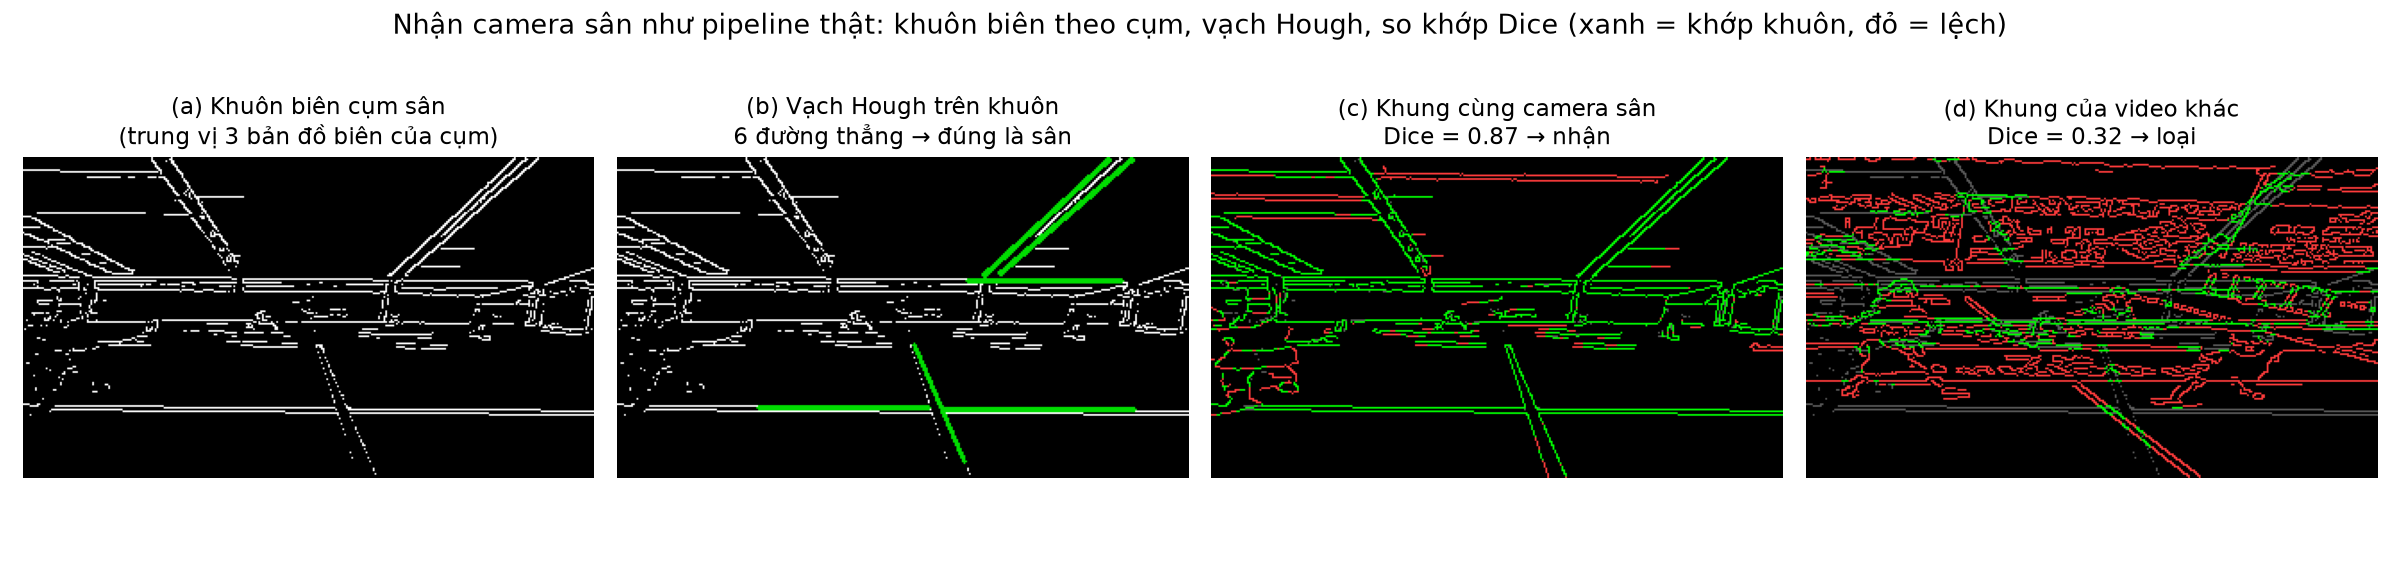
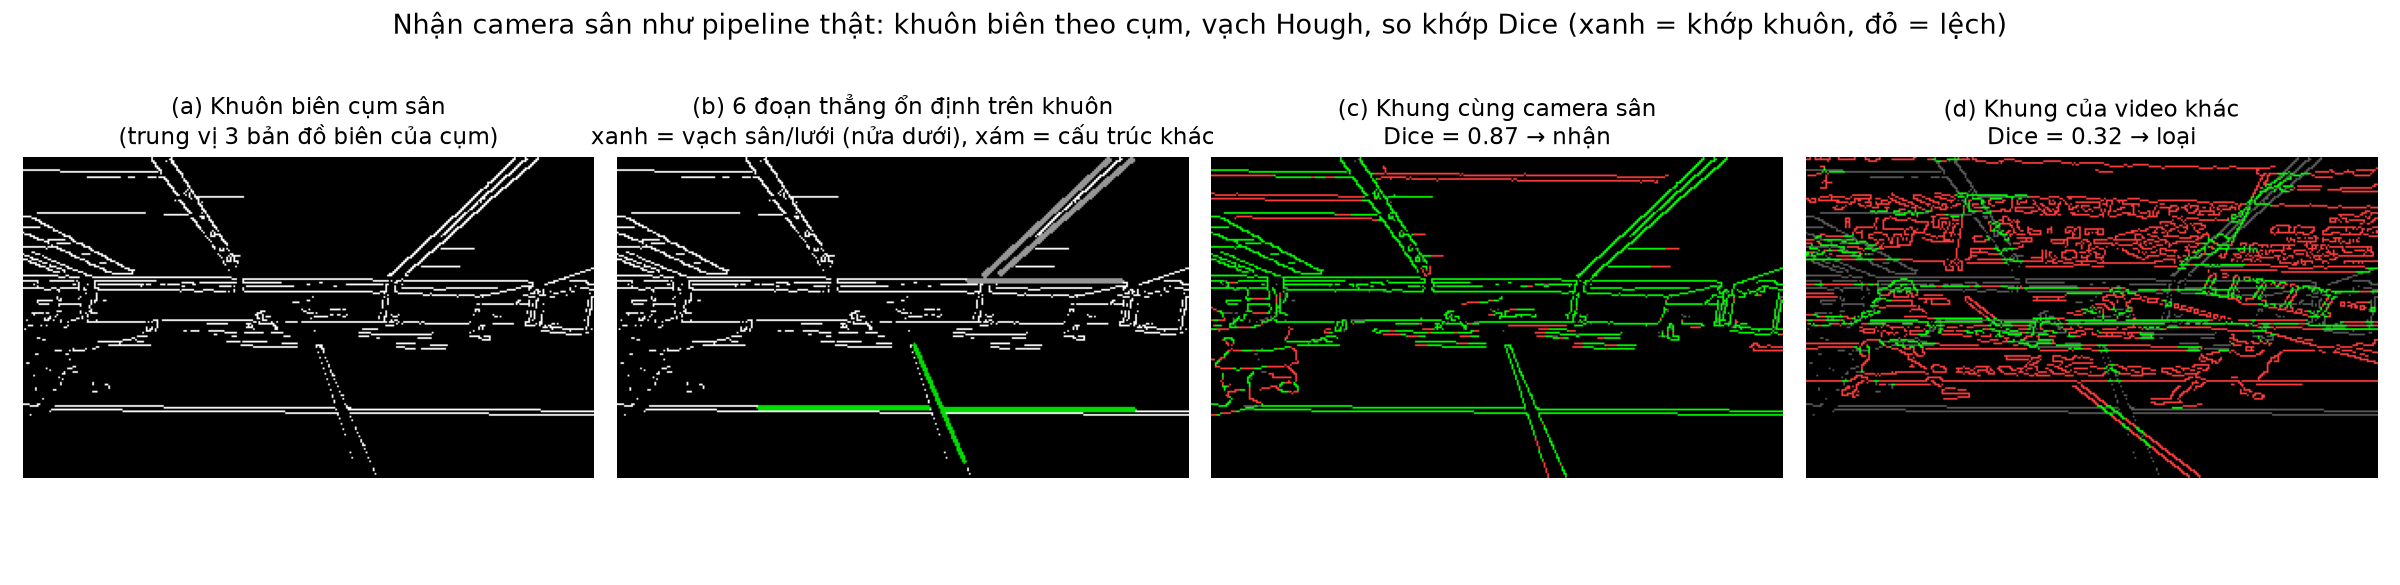
Court-only rally mode for broadcasts with nonstop commentary
detect_rallies gains use_audio: with commentary through live play the
"crowd hushes" audio gate cuts rallies mid-play (51s cut while play ran
to ~70s on the 11-minute example), so court-only segmentation keeps
pauses but never splits a rally. The end-to-end example runs both modes
side by side (22 rallies / 8.2 min court vs the old 6.6 min audio cut),
the Hough illustration now colours court lines vs other static
structure honestly, and the demo video's numbers follow.

Changed region(s): [[0.25, 0.1538, 0.5, 0.2462], [0.4062, 0.2769, 0.4688, 0.4923]]

diff --git a/video_nop_bai/src/data.ts b/video_nop_bai/src/data.ts
@@ -22,9 +22,9 @@ export const PIPELINE: { step: string; algo: string; img: string; cap: string }[
   { step: 'Lấy mẫu 2 khung/giây, thu 320×180', algo: 'Lấy mẫu', img: 'steps/b1_goc.png', cap: 'Khung mẫu 320×180 lấy từ video 11 phút' },
   { step: 'Giảm nhiễu Gauss 3×3 → detect biên Canny 50/150', algo: 'Canny', img: 'steps/b2_canny.png', cap: 'Bản đồ biên Canny của đúng khung đó' },
   { step: 'Khuôn biên mỗi cụm camera = trung vị bản đồ biên', algo: 'K-means + Dice', img: 'steps/b3_khuon.png', cap: 'Khuôn biên: chỉ giữ biên đứng yên qua các khung cùng cụm' },
-  { step: 'Camera sân = khuôn ổn định có vạch thẳng Hough', algo: 'Hough', img: 'steps/b4_hough.png', cap: 'Vạch Hough (xanh) trên khuôn → đây là camera sân' },
-  { step: 'Khán giả im = phía thấp của ngưỡng Otsu trên âm lượng', algo: 'Otsu', img: 'steps/b5_am_luong.png', cap: 'Phân bố âm lượng của video + ngưỡng Otsu tự chọn' },
-  { step: 'Pha = sân ∧ im; lấp lỗ ≤ 1 s, bỏ đoạn < 1,5 s (làm mượt)', algo: 'Đóng/mở 1-D', img: 'steps/b6_dong_thoi_gian.png', cap: 'Dải vàng = pha tách được trên toàn bộ video' },
+  { step: 'Camera sân = khuôn ổn định có vạch thẳng Hough', algo: 'Hough', img: 'steps/b4_hough.png', cap: 'Đoạn thẳng ổn định: xanh = vạch sân/lưới (nửa dưới), xám = khung mái, băng rôn' },
+  { step: 'Khán giả im = phía thấp của ngưỡng Otsu trên âm lượng', algo: 'Otsu', img: 'steps/b5_am_luong.png', cap: 'Âm lượng + ngưỡng Otsu — video này BLV nói suốt lúc đánh nên QC tắt điều kiện âm thanh' },
+  { step: 'Pha = sân ∧ im; lấp lỗ ≤ 1 s, bỏ đoạn < 1,5 s (làm mượt)', algo: 'Đóng/mở 1-D', img: 'steps/b6_dong_thoi_gian.png', cap: 'Dải vàng = 22 pha theo camera sân — không cắt giữa pha' },
   { step: 'Đệm +1 s trước (không lùi quá đầu cảnh sân) và +2 s sau', algo: 'Luật đệm', img: 'steps/b6_dong_thoi_gian.png', cap: 'Mỗi pha đệm thêm để giữ trọn cú giao bóng và tiếng reo' },
   { step: 'Chấm điểm pha → chọn trọn pha → ffmpeg cắt và nối', algo: 'Greedy / Knapsack', img: 'steps/b8_ket_qua.png', cap: 'Keyframe của 4 pha dài nhất được ghép vào highlight' },
 ];
@@ -32,7 +32,8 @@ export const PIPELINE: { step: string; algo: string; img: string; cap: string }[
 // Kết quả đầu-cuối trên video công khai (youtube.com/watch?v=PMRSb3ogWq4) — số từ runs/vi_du_dau_cuoi/ket_qua.json
 export const END2END = {
   url: 'youtube.com/watch?v=PMRSb3ogWq4',
-  input: '11,0 phút', rallies: '48 pha', output: '6,6 phút', percent: '60%',
+  input: '11,0 phút', rallies: '22 pha', output: '8,2 phút', percent: '75%',
+  note: 'Video này có bình luận viên nói trong lúc đánh nên QC tắt điều kiện "khán giả im" (chế độ đó cho 6,6 phút nhưng cắt pha giữa chừng) — tách thuần theo camera sân: không bao giờ cắt giữa pha.',
 };
 
 export const DEMO_CAPTIONS: { fromSec: number; text: string }[] = [

diff --git a/video_nop_bai/src/scenes.tsx b/video_nop_bai/src/scenes.tsx
@@ -211,13 +211,14 @@ export const EndToEndScene: React.FC<{duration: number}> = ({duration}) => {
     <Scene duration={duration}>
       <Kicker>Kết quả đầu-cuối · {END2END.url}</Kicker>
       <H1 size={56}>Video {END2END.input} → còn {END2END.output} highlight</H1>
-      <div style={{display: 'flex', gap: 26, marginBottom: 34}}>
+      <div style={{display: 'flex', gap: 26, marginBottom: 16}}>
         {stat(END2END.input, 'video trận đấu đầu vào', 0)}
         {arrow}
         {stat(END2END.rallies, 'pha bóng tách tự động', 1)}
         {arrow}
         {stat(END2END.output, `highlight trọn pha (${END2END.percent} thời lượng gốc)`, 2)}
       </div>
+      <div style={{fontSize: 23, color: COLORS.dim, marginBottom: 26, lineHeight: 1.4}}>{END2END.note}</div>
       <div style={{display: 'flex', gap: 44, alignItems: 'center'}}>
         <Card style={{flex: 1.35, padding: 18}}>
           <Img src={staticFile('steps/b6_dong_thoi_gian.png')} style={{width: '100%', borderRadius: 10}} />
@@ -233,7 +234,7 @@ export const EndToEndScene: React.FC<{duration: number}> = ({duration}) => {
         >
           <OffthreadVideo muted src={staticFile('output_preview.mp4')} style={{width: '100%', display: 'block'}} />
           <div style={{fontSize: 22, color: COLORS.dim, padding: '10px 16px', background: 'rgba(0,0,0,.35)'}}>
-            Trích đoạn video highlight đầu ra (ghép các pha trọn vẹn, giữ âm thanh gốc)
+            MỘT pha trọn vẹn trong highlight đầu ra — các pha được nối tiếp nhau, giữ âm thanh gốc
           </div>
         </div>
       </div>

diff --git a/reports/qc/vi_du_dau_cuoi.py b/reports/qc/vi_du_dau_cuoi.py
@@ -1,10 +1,13 @@
 """Ví dụ ĐẦU-CUỐI: một video trận đấu → các bước xử lý → video highlight, kèm ảnh từng bước.
 
-Chạy:  .venv/bin/python reports/qc/vi_du_dau_cuoi.py video_thu_nghiem/match_11p.mp4 runs/vi_du_dau_cuoi
-In ra: thời lượng gốc, số pha, tổng thời lượng highlight (giữ toàn bộ pha) và bản 25%.
-Sinh:  <out>/highlight/summary.mp4 (toàn bộ pha) và bộ ảnh từng bước trong <out>/steps/:
-  b1_goc.png  b2_canny.png  b3_khuon.png  b4_hough.png  b5_am_luong.png  b6_dong_thoi_gian.png  b8_ket_qua.png
-Cần matplotlib (pip install matplotlib). Mọi bước dùng đúng hàm của pipeline (core.py).
+Chạy:  .venv/bin/python reports/qc/vi_du_dau_cuoi.py video_thu_nghiem/match_11p.mp4 runs/vi_du_dau_cuoi [court|audio]
+Chế độ (tham số 3, mặc định court):
+  court — tách pha CHỈ theo camera sân (use_audio=False): không bao giờ cắt giữa pha,
+          chấp nhận giữ khoảng nghỉ. Dùng cho video có bình luận viên nói suốt lúc đánh
+          (QC 10/11: chế độ audio cắt pha 51→55,5 s dù trận còn đánh tới ~70 s).
+  audio — thêm điều kiện khán giả im (mặc định của pipeline, cho phát sóng khán giả im khi đánh).
+In ra số của CẢ HAI chế độ để so sánh; xuất highlight + ảnh từng bước theo chế độ đã chọn.
+Phân tích được tái dùng nếu <out>/analysis/features.csv đã có. Cần matplotlib.
 """
 import json
 import sys
@@ -14,11 +17,12 @@ sys.path.insert(0, str(Path(__file__).resolve().parents[2]))
 
 import cv2
 import numpy as np
+import pandas as pd
 import matplotlib
 matplotlib.use('Agg')
 import matplotlib.pyplot as plt
 
-from core import _edges, analyze, detect_rallies, export_video, otsu_threshold, select
+from core import _edges, analyze, detect_rallies, export_video, knapsack_select, otsu_threshold
 
 
 def save(path, image, color=False):
@@ -26,20 +30,30 @@ def save(path, image, color=False):
     print('OK', path)
 
 
-def main(video, out):
+def main(video, out, mode='court'):
     video, out = Path(video), Path(out)
     steps = out/'steps'; steps.mkdir(parents=True, exist_ok=True)
 
-    print('— Phân tích (lấy mẫu 2 khung/giây)…')
-    df, meta = analyze(video, out/'analysis')
-    rallies = detect_rallies(df, meta)
-    chosen, _ = select(df, meta, ratio=1., mode='rally')
+    analysis = out/'analysis'
+    if (analysis/'features.csv').exists():
+        print('— Dùng lại phân tích có sẵn trong', analysis)
+        df = pd.read_csv(analysis/'features.csv')
+        meta = json.loads((analysis/'metadata.json').read_text(encoding='utf-8'))
+    else:
+        print('— Phân tích (lấy mẫu 2 khung/giây)…')
+        df, meta = analyze(video, analysis)
+
+    both = {m: detect_rallies(df, meta, use_audio=(m == 'audio')) for m in ('court', 'audio')}
+    for m, rs in both.items():
+        tt = sum(r['end']-r['start'] for r in rs)
+        print(f'— Chế độ {m:5s}: {len(rs)} pha, {tt/60:.1f} phút ({tt/meta["duration"]:.0%} gốc)')
+    rallies = both[mode]
+    chosen = sorted(rallies, key=lambda r: r['start'])
     total = sum(r['end']-r['start'] for r in chosen)
-    print(f'— Video {meta["duration"]/60:.1f} phút → {len(rallies)} pha → highlight toàn bộ pha: '
-          f'{total/60:.1f} phút ({total/meta["duration"]:.0%} thời lượng gốc)')
-    quarter, _ = select(df, meta, ratio=.25, mode='rally')
+    print(f'— Dùng chế độ "{mode}" cho highlight và ảnh từng bước.')
+    quarter = knapsack_select(rallies, meta['duration']*.25)
     q_total = sum(r['end']-r['start'] for r in quarter)
-    print(f'— Bản 25%: {len(quarter)} pha, {q_total/60:.1f} phút')
+    print(f'— Bản 25% ({mode}): {len(quarter)} pha, {q_total/60:.1f} phút')
 
     print('— Xuất video highlight…')
     export_video(video, chosen, out/'highlight')
@@ -59,12 +73,19 @@ def main(video, out):
     maps = [_edges(cv2.cvtColor(cv2.imread(str(out/'analysis'/df.image.iloc[i])), cv2.COLOR_BGR2GRAY)) for i in picks]
     template = np.mean(maps, axis=0) >= .5
     save(steps/'b3_khuon.png', template)
+    # Hough chỉ là CỔNG xác nhận "khuôn có đường thẳng ổn định". Hình minh họa tô hai màu
+    # cho trung thực: xanh = đường ở nửa dưới khung (vạch sân, mép lưới); xám = cấu trúc
+    # tĩnh khác (khung mái, mép băng rôn) — cũng là bằng chứng camera cố định.
     hough_img = cv2.cvtColor((template*255).astype(np.uint8), cv2.COLOR_GRAY2BGR)
     lines = cv2.HoughLinesP((template*255).astype(np.uint8), 1, np.pi/180, 30, minLineLength=64, maxLineGap=4)
-    for l in (lines if lines is not None else [])[:80]:
-        x1, y1, x2, y2 = l[0]; cv2.line(hough_img, (x1, y1), (x2, y2), (0, 220, 0), 2)
+    n_court = n_other = 0
+    for l in sorted((lines if lines is not None else []), key=lambda l: (l[0][1]+l[0][3])/2)[:80]:
+        x1, y1, x2, y2 = l[0]
+        on_court = (y1+y2)/2 > template.shape[0]*.45
+        n_court += on_court; n_other += not on_court
+        cv2.line(hough_img, (x1, y1), (x2, y2), (0, 220, 0) if on_court else (150, 150, 150), 2)
     save(steps/'b4_hough.png', hough_img, color=True)
-    print(f'— Khuôn biên cụm {cluster}: {int(template.sum())} điểm, {0 if lines is None else len(lines)} vạch Hough')
+    print(f'— Khuôn biên cụm {cluster}: {int(template.sum())} điểm; Hough: {n_court} vạch sân/lưới (nửa dưới) + {n_other} cấu trúc tĩnh khác')
 
     loud = df.loudness_db.to_numpy(); finite = loud[np.isfinite(loud)]
     cut = otsu_threshold(finite) if len(finite) else None
@@ -96,13 +117,14 @@ def main(video, out):
         save(steps/'b8_ket_qua.png', np.vstack([np.hstack(grid[:2]), np.hstack(grid[2:])]), color=True)
 
     (out/'ket_qua.json').write_text(json.dumps(dict(
-        video=str(video), duration_minutes=meta['duration']/60, rallies=len(rallies),
+        video=str(video), mode=mode, duration_minutes=meta['duration']/60, rallies=len(rallies),
         highlight_all_minutes=total/60, kept_fraction=total/meta['duration'],
         quarter_rallies=len(quarter), quarter_minutes=q_total/60,
+        modes={m: dict(rallies=len(rs), minutes=sum(r['end']-r['start'] for r in rs)/60) for m, rs in both.items()},
         segments=[(r['start'], r['end']) for r in chosen]), indent=2), encoding='utf-8')
     print('— Xong. Kết quả:', out/'ket_qua.json')
 
 
 if __name__ == '__main__':
-    if len(sys.argv) != 3: raise SystemExit(__doc__)
-    main(sys.argv[1], sys.argv[2])
+    if len(sys.argv) not in (3, 4): raise SystemExit(__doc__)
+    main(*sys.argv[1:])

diff --git a/reports/qc/minh_hoa_bien.py b/reports/qc/minh_hoa_bien.py
@@ -101,7 +101,9 @@ def main(main_video, other_video):
     lines = cv2.HoughLinesP((template*255).astype(np.uint8), 1, np.pi/180, 30, minLineLength=64, maxLineGap=4)
     n_lines = 0 if lines is None else len(lines)
     for l in (lines if lines is not None else [])[:60]:
-        x1, y1, x2, y2 = l[0]; cv2.line(hough, (x1, y1), (x2, y2), (0, 220, 0), 2)
+        x1, y1, x2, y2 = l[0]
+        on_court = (y1+y2)/2 > template.shape[0]*.45       # nửa dưới khung = vạch sân/lưới
+        cv2.line(hough, (x1, y1), (x2, y2), (0, 220, 0) if on_court else (150, 150, 150), 2)
 
     def match_vis(test_frame):
         e = _edges(cv2.cvtColor(test_frame, cv2.COLOR_BGR2GRAY))
@@ -117,7 +119,7 @@ def main(main_video, other_video):
 
     fig, axes = plt.subplots(1, 4, figsize=(16, 3.9))
     show(axes[0], template, f'(a) Khuôn biên cụm sân\n(trung vị {len(members)} bản đồ biên của cụm)', 'gray')
-    show(axes[1], cv2.cvtColor(hough, cv2.COLOR_BGR2RGB), f'(b) Vạch Hough trên khuôn\n{n_lines} đường thẳng → đúng là sân')
+    show(axes[1], cv2.cvtColor(hough, cv2.COLOR_BGR2RGB), f'(b) {n_lines} đoạn thẳng ổn định trên khuôn\nxanh = vạch sân/lưới (nửa dưới), xám = cấu trúc khác')
     show(axes[2], vis_same, f'(c) Khung cùng camera sân\nDice = {dice_same:.2f} → nhận')
     show(axes[3], vis_other, f'(d) Khung của video khác\nDice = {dice_other:.2f} → loại')
     fig.suptitle('Nhận camera sân như pipeline thật: khuôn biên theo cụm, vạch Hough, so khớp Dice (xanh = khớp khuôn, đỏ = lệch)', fontsize=FS+2)

diff --git a/core.py b/core.py
@@ -172,7 +172,7 @@ def _rank(x):
     return np.searchsorted(np.sort(x), x, side='right')/len(x)
 
 
-def detect_rallies(df, meta, pre=1., post=2., min_len=1.5, gap=1., reaction=3.):
+def detect_rallies(df, meta, pre=1., post=2., min_len=1.5, gap=1., reaction=3., use_audio=True):
     """Rallies of a broadcast racket-sport match, as whole intervals that are never cut.
 
     A rally is a quiet stretch while a fixed court camera is on screen: a frame is on a court camera
@@ -195,7 +195,10 @@ def detect_rallies(df, meta, pre=1., post=2., min_len=1.5, gap=1., reaction=3.):
         fixed = stats.index[log_motion <= otsu_threshold(log_motion, stats['size'])]
         court = df.camera.isin(fixed).to_numpy()
     loud = df.loudness_db.to_numpy()
-    quiet = np.ones(len(df), bool) if np.isnan(loud).all() else loud < otsu_threshold(loud)
+    # use_audio=False: segment on the court camera alone. For broadcasts with nonstop
+    # commentary the "crowd hushes during play" assumption fails and the audio gate cuts
+    # rallies mid-play; court-only segments keep pauses but never split live play.
+    quiet = np.ones(len(df), bool) if (not use_audio or np.isnan(loud).all()) else loud < otsu_threshold(loud)
     play = court & quiet
     # Bridge short gaps (a camera switch or a shout mid-rally) between two quiet stretches.
     hole = int(round(gap/step))

diff --git a/tests/test_rally.py b/tests/test_rally.py
@@ -44,6 +44,12 @@ def test_rallies_are_quiet_court_stretches_with_serve_and_reaction():
     assert all(a['end'] <= b['start'] for a, b in zip(rallies, rallies[1:]))
 
 
+def test_without_audio_rallies_follow_the_court_camera_alone():
+    df, meta = timeline(MATCH)                    # loud mid-rally commentary must not split play
+    rallies = detect_rallies(df, meta, use_audio=False)
+    assert [(r['core_start'], r['core_end']) for r in rallies] == [(5., 20.), (24., 33.)]
+
+
 def test_pre_roll_does_not_reach_into_the_close_up():
     df, meta = timeline([(4, 1, -20), (6, 0, -31), (4, 1, -18)])   # close-up, then the serve right after the cut
     (rally,) = detect_rallies(df, meta)
